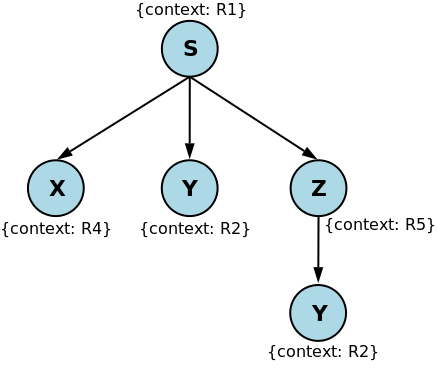
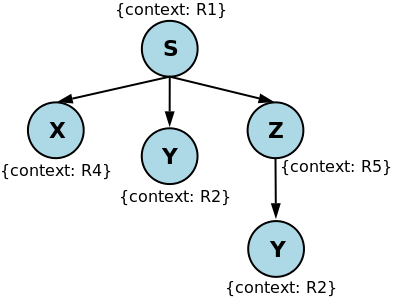
errores

Changed region(s): [[0.0, 0.0, 1.0, 0.977]]

diff --git a/branches/informe/Usos.tex b/branches/informe/Usos.tex
@@ -71,7 +71,7 @@ Como bien hemos visto en secciones anteriores, la entrada del evaluador generado
 
 Observemos el AST con el siguiente diagrama:
 \begin{center}
-\includegraphics[width=250pt,height=211pt]{ast.png}
+\includegraphics[width=250pt,height=193pt]{ast.png}
 \end{center}
 Los atributos de cada símbolo del AST esta con valores indefinidos, veamos en la siguiente imagen con la compilación e invocación del evaluador generado por \maggen\ para computar los atributos de los símbolos del AST.
 \begin{center}
@@ -82,41 +82,91 @@ Analicemos los valores de los atributos de cada símbolo en la siguiente tabla:
 \begin{center}\begin{tabular}{|| c | c | l ||}
 \hline \hline
 
-\multicolumn{1}{|>{\columncolor[rgb]{0.8, 0.8, 0.8}}l|}{\textbf{Símbolo}} &
-\multicolumn{1}{|>{\columncolor[rgb]{0.8, 0.8, 0.8}}l|}{\textbf{Atributo}} &
-\multicolumn{1}{|>{\columncolor[rgb]{0.8, 0.8, 0.8}}l|}{\textbf{Evaluación}} \\ \hline
+\rowcolor[rgb]{0.8, 0.8, 0.8} \textbf{Símbolo}&\textbf{Atributo}&\textbf{Evaluación}\\ \hline
 
-\multirow{2}{*}{\textbf{S}} & \multirow{2}{*}{s0} & \texttt{(eq 1) S.s0 = X.s1 + Y.s2 + Y.s3 + Z.s4}\\ 
-			&& \textbf{S.s0 = 4}\\ \hline
+\multirow{2}{*}{\textbf{S}} & \multirow{2}{*}{s0} & \texttt{(eq 1) S.s0 = X.s1 + Y.s2 + Y.s3 + Z.s4} \\ 
+                           &                     & \textbf{S.s0 = 4} \\ \hline
 
-\multirow{4}{*}{\textbf{X}}& \multirow{2}{*}{i1} & \texttt{(eq 2) X.i1 = Y.s3}\\ 
-					&& \textbf{X.i1 = 1.}\\
-		  & \multirow{2}{*}{s1} & \texttt{(eq 9) X.s1 = X.i1}\\ 
-					&& \textbf{X.s1 = 1.}\\ \hline
+\multirow{4}{*}{\textbf{X}} & \multirow{2}{*}{i1} & \texttt{(eq 2) X.i1 = Y.s3} \\ 
+                           &                     & \textbf{X.i1 = 1.} \\ \cline{2-3}
+                           & \multirow{2}{*}{s1} & \texttt{(eq 9) X.s1 = X.i1} \\ 
+                           &                     & \textbf{X.s1 = 1.} \\ \hline
 
-\multirow{7}{*}{\textbf{Y}}& s3  & \texttt{(eq 6)} \textbf{Y.s3 = 1}\\
-&\multirow{2}{*}{s2}& 	\texttt{(eq 5) Y.s2 = Y.i2}\\
-			&& \textbf{Y.s2 = 1} \\
-&\multirow{2}{*}{i2}	& \texttt{(eq 3) Y.i2 = X.s1}\\
-			&& \textbf{Y.i2 = 1} \\
-&\multirow{2}{*}{i3}	& \texttt{(eq 4) Y.i3 = Y.s2}\\
-			&& \textbf{Y.i3 = 1} \\ \hline
+\multirow{7}{*}{\textbf{Y}} &                 s3  & \texttt{(eq 6)} \textbf{Y.s3 = 1} \\ \cline{2-3}
+                           & \multirow{2}{*}{s2} &    \texttt{(eq 5) Y.s2 = Y.i2} \\
+                           &                     & \textbf{Y.s2 = 1} \\ \cline{2-3}
+                           & \multirow{2}{*}{i2} & \texttt{(eq 3) Y.i2 = X.s1} \\
+                           &                     & \textbf{Y.i2 = 1} \\ \cline{2-3}
+                           & \multirow{2}{*}{i3} & \texttt{(eq 4) Y.i3 = Y.s2} \\
+                           &                     & \textbf{Y.i3 = 1} \\ \hline
 
-\multirow{2}{*}{\textbf{Z}} & \multirow{2}{*}{S4} & \texttt{(eq 10) Z.s4 = Y.s3}\\
-			&& \textbf{Z.s4 = 1} \\ \hline
+\multirow{2}{*}{\textbf{Z}} & \multirow{2}{*}{S4} & \texttt{(eq 10) Z.s4 = Y.s3} \\
+                           &                     & \textbf{Z.s4 = 1} \\ \hline
 
-\multirow{7}{*}{\textbf{Y}}& s3  & \texttt{(eq 6)} \textbf{Y.s3 = 1}\\
-&\multirow{2}{*}{s2}& 	\texttt{(eq 5) Y.s2 = Y.i2}\\
-			&& \textbf{Y.s2 = 3} \\ 
-&\multirow{2}{*}{i2}	& \texttt{(eq 3) Y.i2 = X.s1}\\
-			&& \textbf{Y.i2 = 3} \\
-&\multirow{2}{*}{i3}	& \texttt{(eq 4) Y.i3 = Y.s2}\\
-			&& \textbf{Y.i3 = 3} \\ \hline  \hline
+\multirow{7}{*}{\textbf{Y}} &                  s3 & \texttt{(eq 6)} \textbf{Y.s3 = 1} \\ \cline{2-3}
+                           & \multirow{2}{*}{s2} &    \texttt{(eq 5) Y.s2 = Y.i2} \\
+                           &                     & \textbf{Y.s2 = 3} \\ \cline{2-3}
+                           & \multirow{2}{*}{i2} & \texttt{(eq 3) Y.i2 = X.s1} \\
+                           &                     & \textbf{Y.i2 = 3} \\ \cline{2-3}
+                           & \multirow{2}{*}{i3} & \texttt{(eq 4) Y.i3 = Y.s2} \\
+                           &                     & \textbf{Y.i3 = 3} \\
+\hline \hline
 
 
 \end{tabular}\end{center}
 
-Tal como analizamos en el ejemplo anterior, el evaluador generado por \maggen\ podría ser utilizado con todos lo AST posibles. Esto es, debido a que el evaluador contiene las secuencias de visita previamente computadas para hacer la tarea de evaluación con una notoria ganancia de tiempo. Entonces podríamos invocar al evaluador, además, con los todos los AST que se desprenden de la gramática del ejemplo de Wuu Yang. En la figura \ref{fig:allast} podemos ver otros AST.
+\begin{figure}\centering
+\includegraphics[width=350pt,height=257pt]{ast-all.png}
+\caption{\label{fig:allast} AST para ejemplo de Wuu Yang.}
+\end{figure}
+
+Tal como analizamos en el ejemplo anterior, el evaluador generado por \maggen\ podría ser utilizado con todos lo AST posibles. Esto es, debido a que el evaluador contiene las secuencias de visita previamente computadas para hacer la tarea de evaluación con una notoria ganancia de tiempo. Entonces podríamos invocar al evaluador, además, con los demas AST que se desprenden con la gramática del ejemplo de Wuu Yang. En la figura \ref{fig:allast} podemos ver la totalidad de AST.
 
 Notar que el ejemplo Wuu yang analizado es considerablemente simple, pero podemos encontrar gramáticas muy simples en la cual los posibles AST sea una cantidad considerable, es en este punto donde el evaluador generado por \maggen\ adquiere mayor potencial y utilidad.
 
+\section{Mensajes y avisos}
+
+En la siguiente tabla analizamos la descripcion de los posibles errores y aviso que se deben tener en cuenta cuando usamos \maggen.
+\newpage
+\begin{longtable}{| p{5cm} || p{5cm} | p{5cm} |}
+\caption{Tabla con mensajes de error en \maggen.}\label{table:mensajes}\\ 
+\hline
+
+\rowcolor[rgb]{0.8, 0.8, 0.8} \textbf{Mensaje} & \textbf{Descripcion} & \textbf{Ayuda}\\
+\hline
+
+ERROR: operator non-associtive using wrong use \ldots & bla bla & no se.\\ \hline
+ERROR: Symbol Non-Teminal \textit{SYMBOL} uses in the right part without rule & bla bla & nose \\ \hline
+ERROR: \textit{SYMBOL} [ \textit{NUM} ]. \textit{ATTR} type synthetized, haven't an equation that defines it. & bla bla & nose \\ \hline
+ERROR: \textit{SYMBOL} [ \textit{NUM} ].\textit{ATTR} type inherited, haven't an equation that defines it. & bla bla & nose \\ \hline
+
+ERROR: \textit{SYMBOL} [ \textit{NUM} ].\textit{ATTR} type synthetized, is defined outside his scope. & bla bla & nose \\ \hline
+
+
+ERROR: the file input non-exist & blabla & noose \\ \hline
+ERROR: Parsing Failed, the following text will not be able to parse: \ldots & bla bla & nose \\ \hline
+
+ERROR: non-terminal symbol \textit{SYMBOL} used does not belong to the rule: \textit{RULE} & bla bla & nose \\ \hline
+ERROR: Index \textit{NUM} of symbol  \textit{SYMBOL} incorrect. & bla bla & nose \\ \hline 
+ERROR: \textit{ATTR} Attribute non-existent. Check the attributes used in the symbols. & bla bla & nose. \\ \hline
+ERROR: Type not expected from l\_value." & bla bla & nose \\ \hline 
+ERROR: infix operator non-exist: \textit{OP-INFIX}. & bla bla & nose \\ \hline 
+ERROR: Function non-exist: \textit{FUNCTION}. & bla bla & nose \\ \hline 
+ERROR: postfix operator non-exist: \textit{OP-POSFIX}. & bla bla & nose \\ \hline 
+ERROR: prefix operator non-exist: \textit{OP-PREFIX}. & bla bla & nose \\ \hline 
+ERROR: The grammar isn't extended grammar. & bla bla & nose \\ \hline
+ERROR: the path \textit{PATH} is invalid or inaccessible. & bla bla & nose \\ \hline
+ERROR: One o more graph ADP has an cycle in its dependencies. Look the folder \textit{PATH-OUTPUT}. & bla bla & nose \\ \hline 
+ERROR: Path non exist: \textit{PATH}. & bla bla & nose \\ \hline 
+ERROR: maggen wrong uses. & bla bla & nose \\ \hline
+
+
+
+
+ERROR: the AST input is wrong create. & bla bla & nose \\ \hline
+ERROR: the AST input is wrong create. & bla bla & nose \\ \hline
+ERROR: Fatal action. & bla bla & nose \\ \hline
+ERROR: Index out bounds: combined ADP graphs.& bla bla & nose \\ 
+\hline 
+
+\end{longtable}

diff --git a/branches/informe/Thesis.tex b/branches/informe/Thesis.tex
@@ -43,7 +43,7 @@
 \begin{vcenterpage}
 \noindent\rule[2pt]{\textwidth}{0.5pt}
 \begin{center}
-{\large\textbf{Design and Use of Numerical Anatomical Atlases for Radiotherapy\\}}
+{\large\textbf{\maggen.\\}}
 \end{center}
 {\large\textbf{Resumen:}}
 El tratamientos de lenguajes es uno de los temas mas estudiados en los ultimos años.

diff --git a/branches/informe/formatAndDefs.tex b/branches/informe/formatAndDefs.tex
@@ -5,7 +5,7 @@
 \usepackage[spanish]{babel} % division de silabas en spanish.
 \usepackage{ucs}
 \usepackage[utf8]{inputenc}
-
+\usepackage{longtable}
 \usepackage{multirow}
 
 \usepackage{listings}
